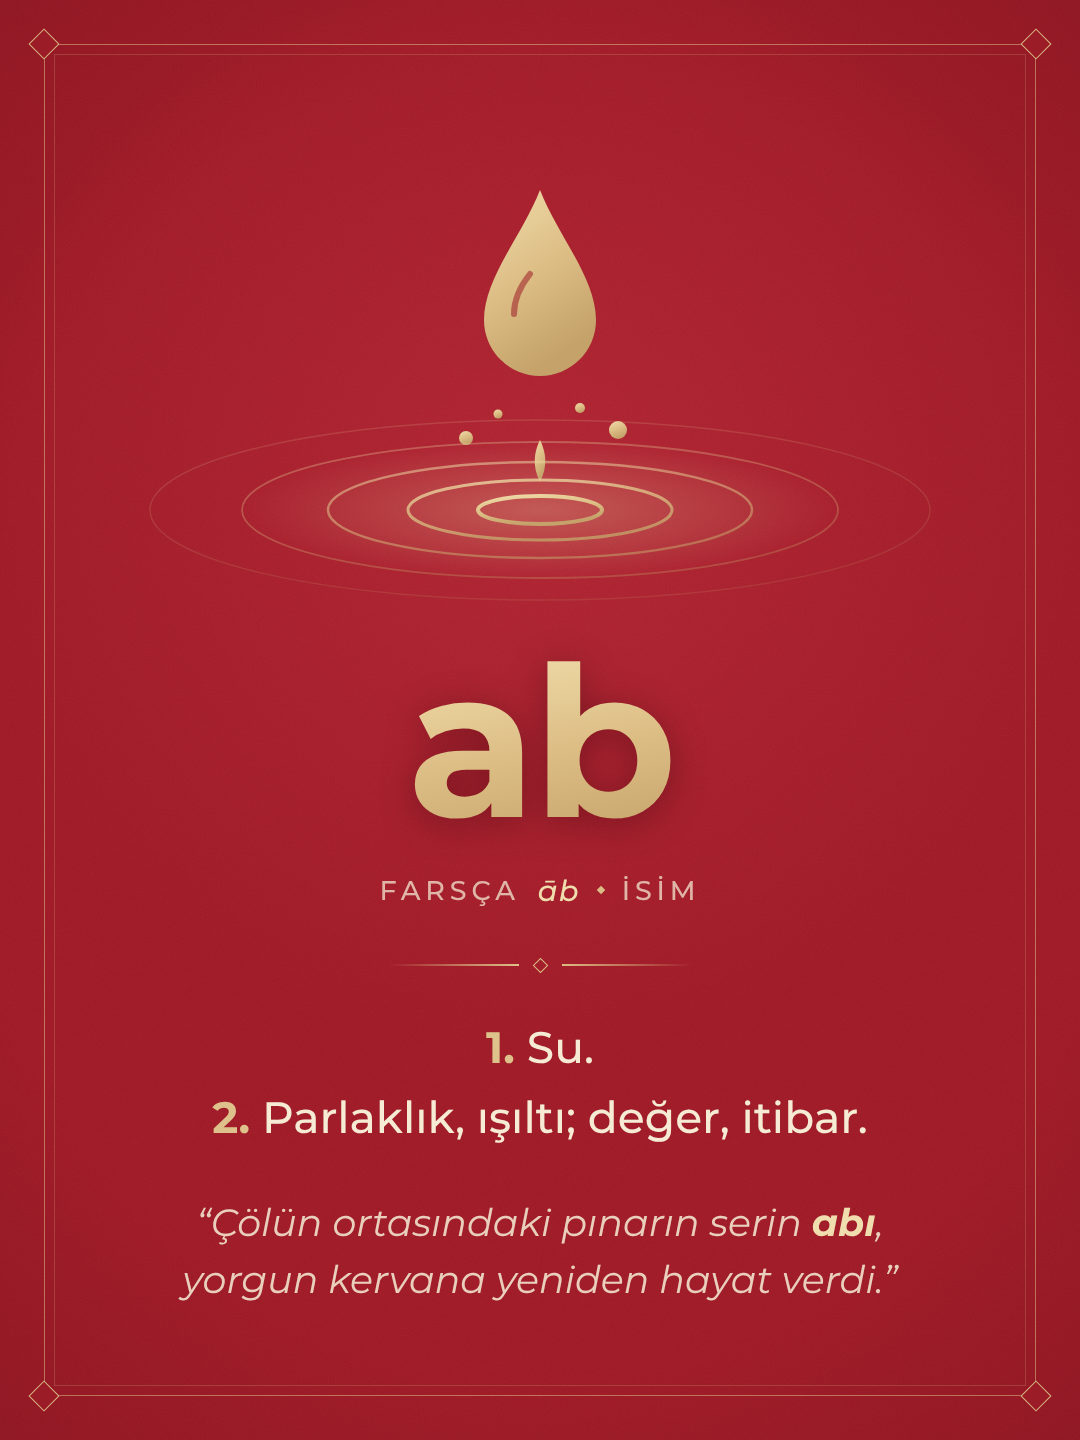
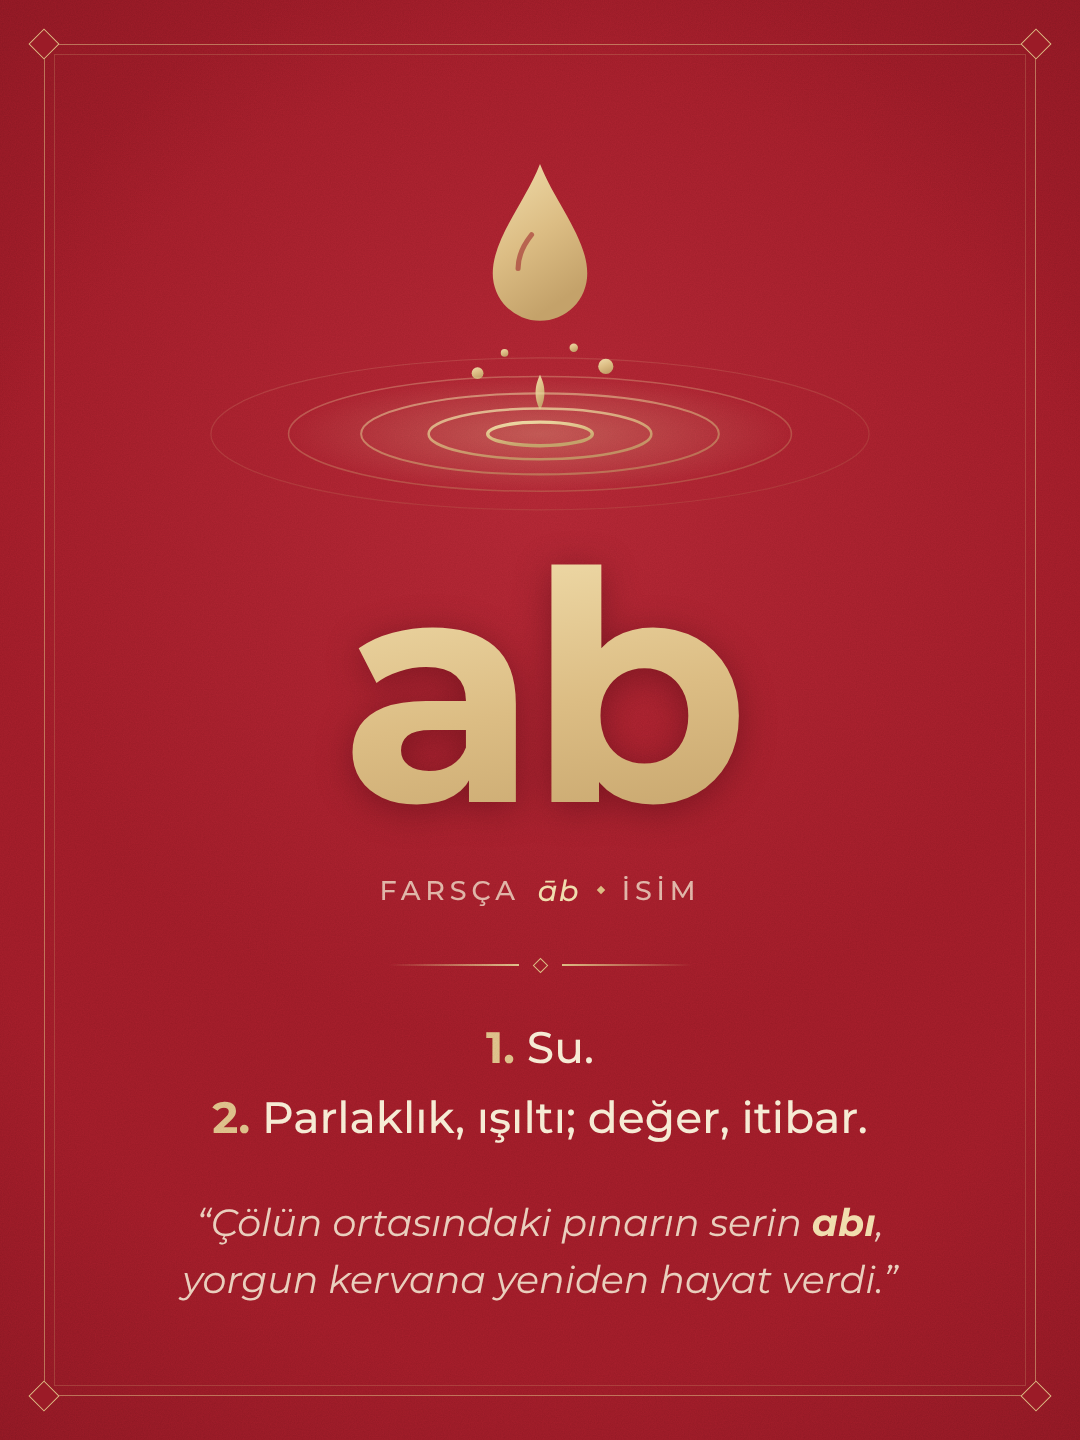
Enlarge the headword in the post template
Claude-Session: https://claude.ai/code/session_01BVFJ2NTV7g7is6wJF8PACB

Changed region(s): [[0.3056, 0.125, 0.7028, 0.5938], [0.6722, 0.3438, 0.7028, 0.375]]

diff --git a/post/template.html b/post/template.html
@@ -49,7 +49,7 @@
 
   .word {
     font-family: 'Montserrat', sans-serif; font-weight: 700; line-height: 1;
-    font-size: 210px; letter-spacing: -.02em; white-space: nowrap; text-align: center;
+    font-size: 320px; letter-spacing: -.03em; white-space: nowrap; text-align: center;
     filter: drop-shadow(0 6px 18px rgba(40,0,6,.35));
     margin-top: 10px;
   }
@@ -102,8 +102,8 @@ function highlight(sentence, word) {
 }
 
 function fitWord(el) {
-  const max = 1080 - 2 * 130;
-  let size = 210;
+  const max = 1080 - 2 * 110;
+  let size = 320;
   el.style.fontSize = size + 'px';
   while (el.scrollWidth > max && size > 90) el.style.fontSize = (size -= 4) + 'px';
 }
